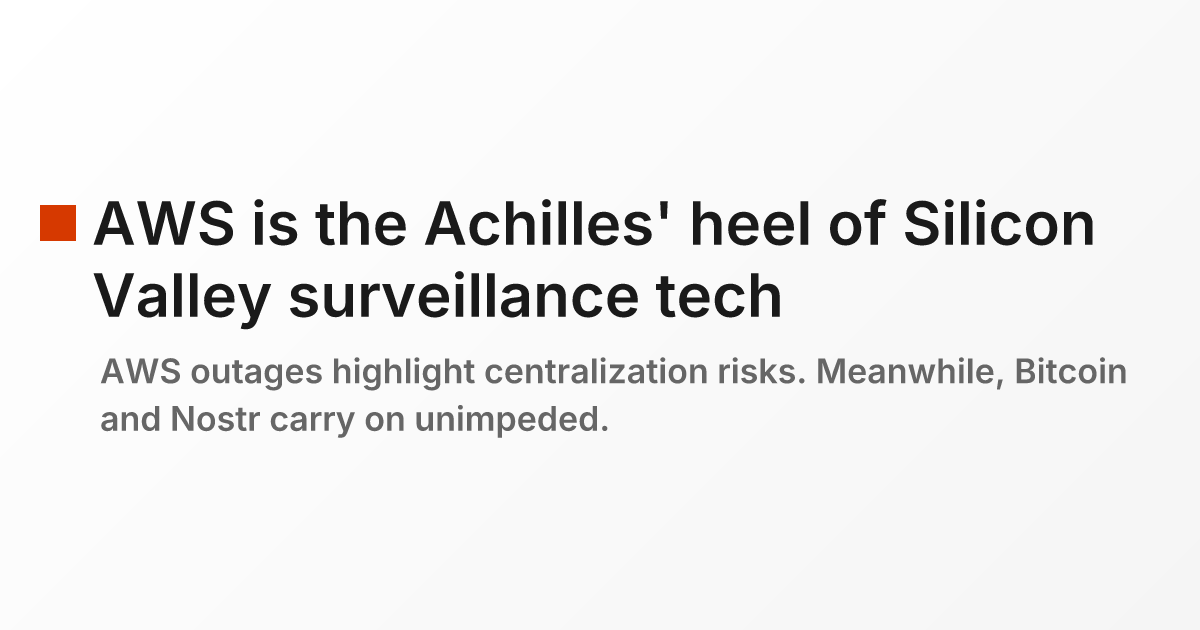
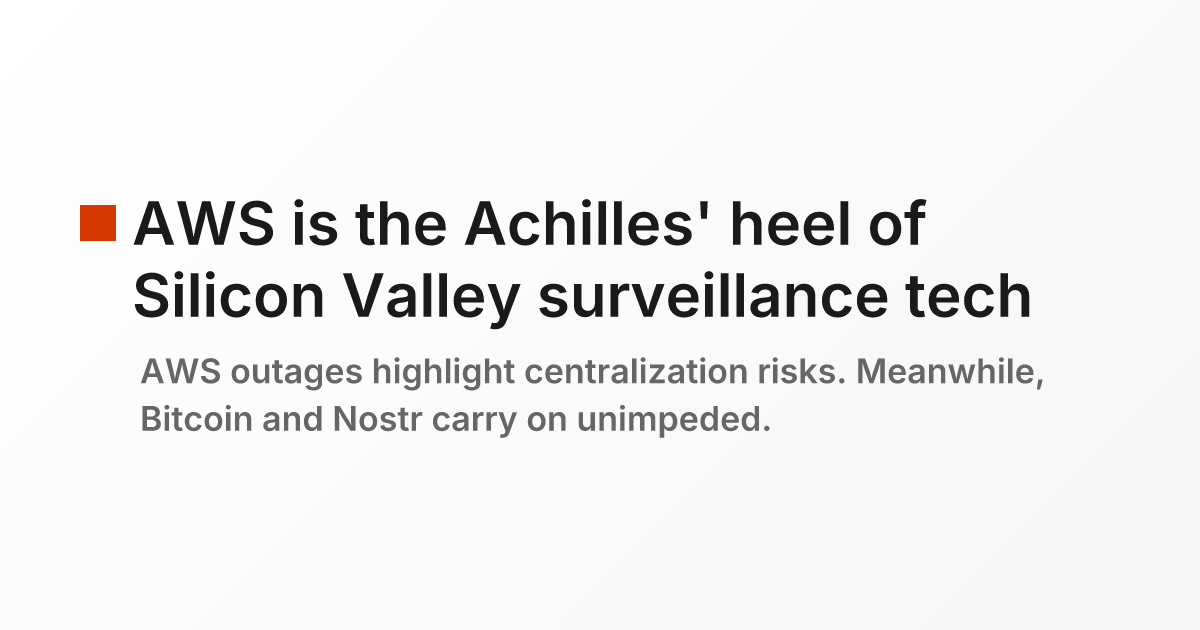
fix: balance landscape OG image margins
- Increase padding from 40px to 80px
- Reduce max-width from 1100px to 980px
- Creates more balanced left/right visual margins
- Matches .com site improvements

Changed region(s): [[0.0617, 0.5429, 0.9558, 0.6937], [0.0308, 0.3016, 0.925, 0.3921], [0.0617, 0.4222, 0.8633, 0.5429]]

diff --git a/scripts/generate-og-images.js b/scripts/generate-og-images.js
@@ -85,7 +85,7 @@ async function main() {
           width: 1200px;
           height: 630px;
           background: linear-gradient(135deg, ${COLORS.bgPrimary} 0%, ${COLORS.bgSecondary} 100%);
-          padding: 40px;
+          padding: 80px;
           font-family: 'Inter', sans-serif;
         ">
           <div style="
@@ -114,7 +114,7 @@ async function main() {
                 color: ${COLORS.textPrimary};
                 line-height: 1.2;
                 margin: 0;
-                max-width: 1100px;
+                max-width: 980px;
               ">${title}</h1>
             </div>
             <p style="
@@ -122,7 +122,7 @@ async function main() {
               color: ${COLORS.textSecondary};
               line-height: 1.4;
               margin: 0;
-              max-width: 1100px;
+              max-width: 980px;
               padding-left: 60px;
             ">${description}</p>
           </div>
